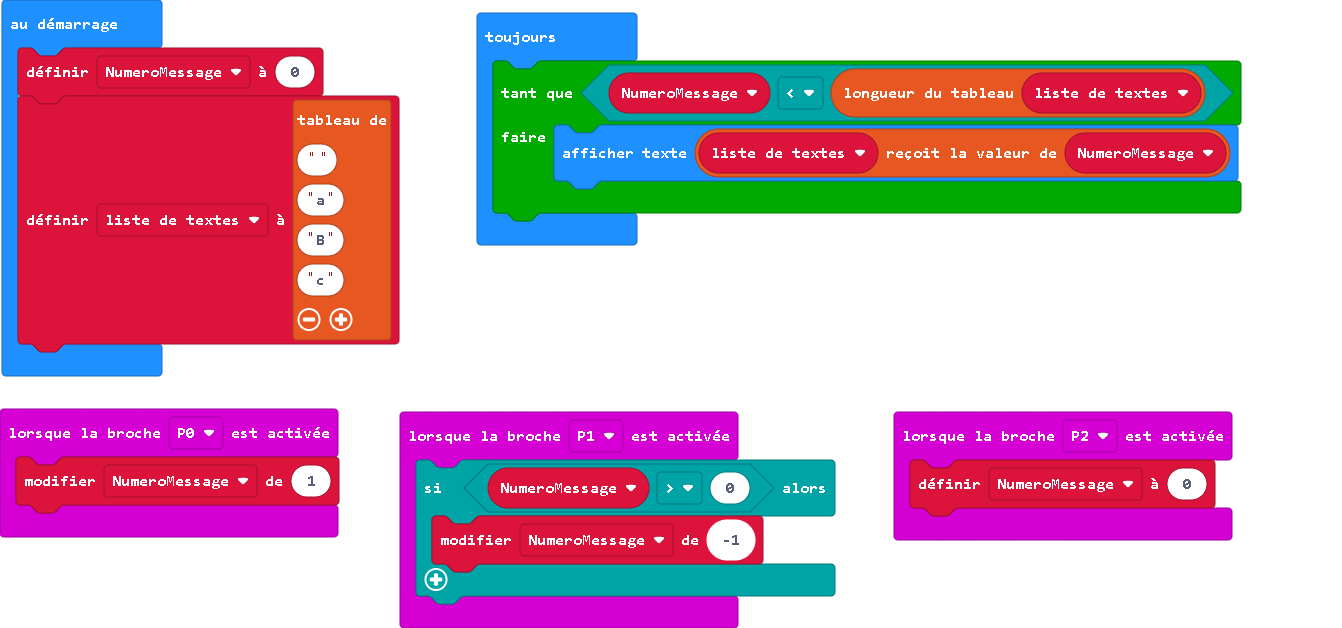
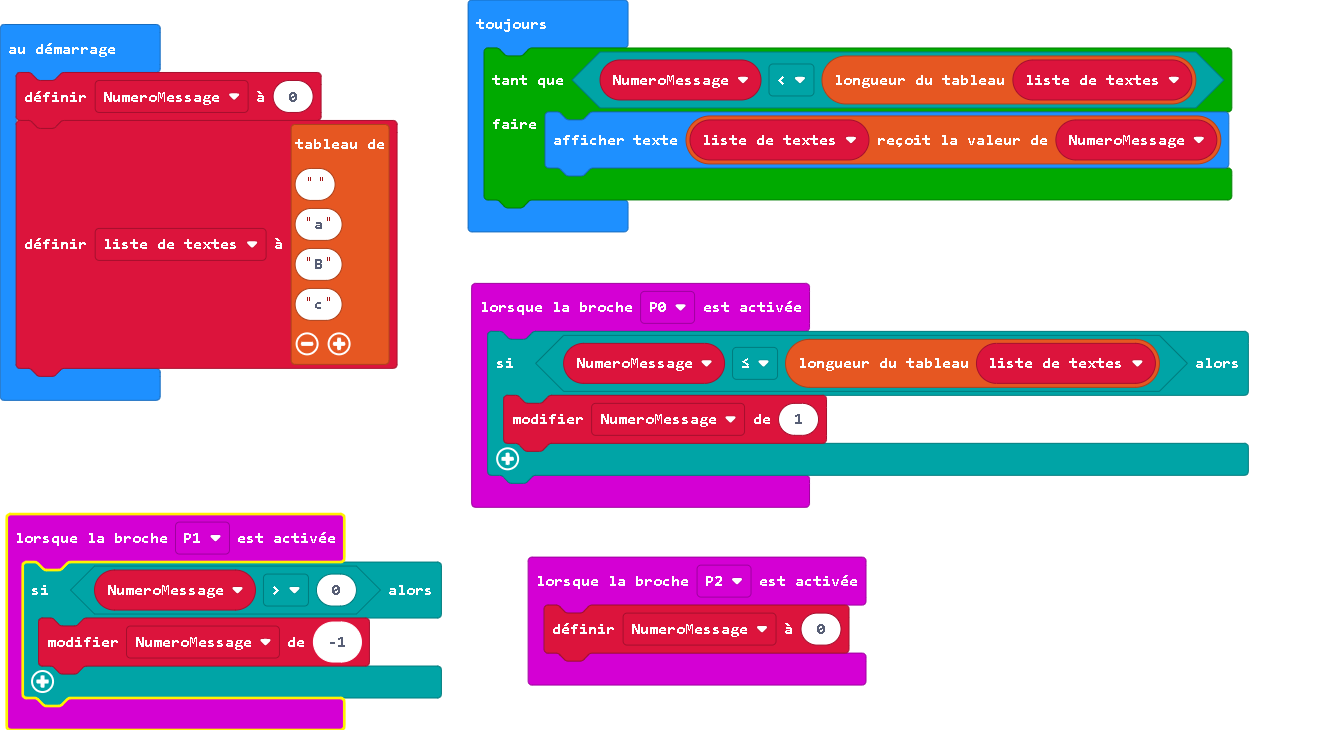
Mise à jour main.blocks, main.ts

diff --git a/main.ts b/main.ts
@@ -1,5 +1,7 @@
 input.onPinPressed(TouchPin.P0, function () {
-    NumeroMessage += 1
+    if (NumeroMessage <= liste_de_textes.length) {
+        NumeroMessage += 1
+    }
 })
 input.onPinPressed(TouchPin.P2, function () {
     NumeroMessage = 0
@@ -9,9 +11,10 @@ input.onPinPressed(TouchPin.P1, function () {
         NumeroMessage += -1
     }
 })
+let liste_de_textes: string[] = []
 let NumeroMessage = 0
 NumeroMessage = 0
-let liste_de_textes = [
+liste_de_textes = [
 "",
 "a",
 "B",
